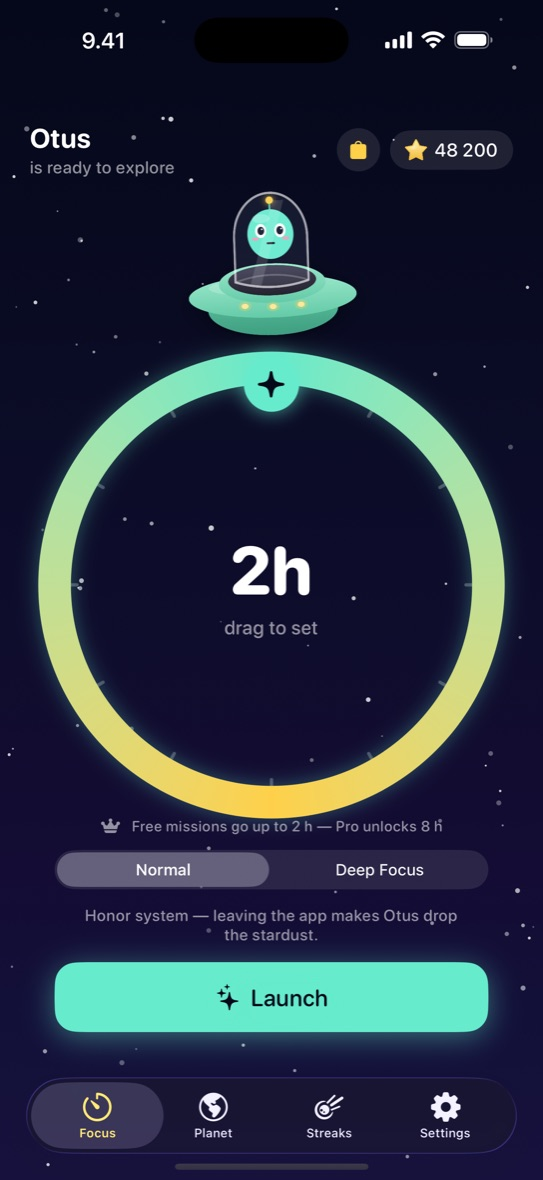
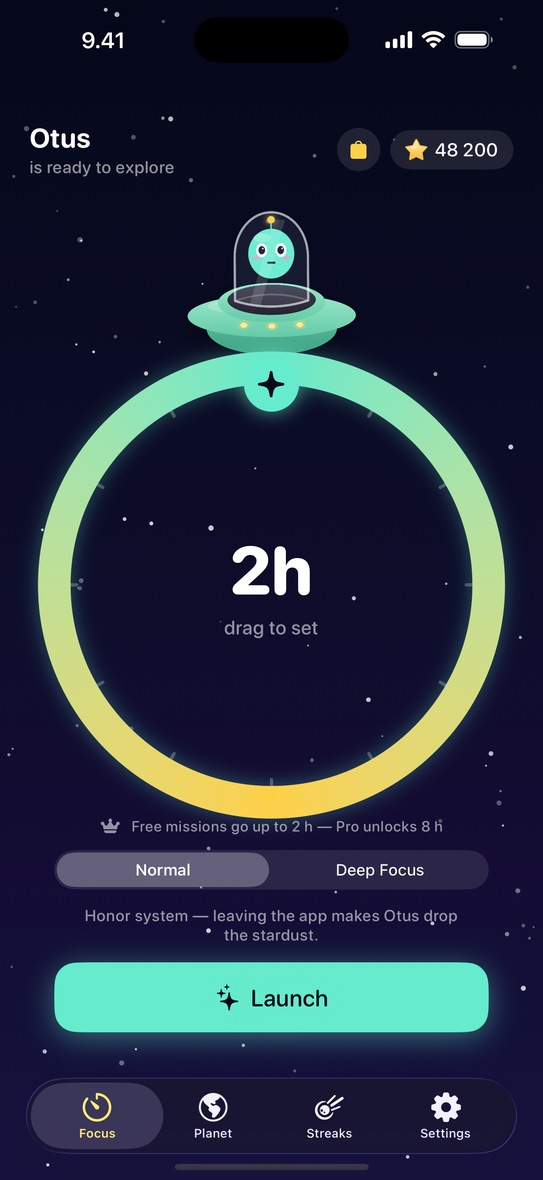
Refresh the OTUS screenshots, and add the outfits shelf
The site keeps its own copies of the app repo's raw/ screens, and they had
gone stale: they were shot on 3 September, before the outfits existed, so
the page was showing an Otus who owns nothing. All ten are recaptured from
today's raws.

Eleventh is new. App Store Connect takes ten and every one is spoken for,
so the outfits shelf can only be shown here — it sits next to the skins
shelf, which is the other half of the same idea.

Alt text updated where the picture changed: the corgi in a bow tie, the
dalmatian in a crown, the flower crown on the water lily, the star
sunglasses on the streak celebration.

diff --git a/_apps/otus/index.md b/_apps/otus/index.md
@@ -33,15 +33,17 @@ screenshots:
   - src: /assets/apps/otus/shot-01.jpg
     alt: "The focus dial, set for a mission"
   - src: /assets/apps/otus/shot-02.jpg
-    alt: "A session running while Otus collects stardust"
+    alt: "A session running while Otus, in corgi colours and a bow tie, collects stardust"
   - src: /assets/apps/otus/shot-05.jpg
-    alt: "A decorated planet"
+    alt: "A decorated planet, with Otus standing on it as a dalmatian in a gold crown"
   - src: /assets/apps/otus/shot-08.jpg
-    alt: "Otus riding the water lily"
+    alt: "Otus riding the water lily, pink and wearing a crown of flowers"
   - src: /assets/apps/otus/shot-09.jpg
     alt: "The shop's alien skins shelf, all fourteen with their prices"
+  - src: /assets/apps/otus/shot-11.jpg
+    alt: "The shop's outfits shelf, bought with stardust rather than money"
   - src: /assets/apps/otus/shot-04.jpg
-    alt: "A streak celebration with the comet"
+    alt: "A streak celebration with the comet, Otus yellow in star sunglasses"
   - src: /assets/apps/otus/shot-10.jpg
     alt: "A month of missions, with the hours and stardust it earned"
   - src: /assets/apps/otus/shot-06.jpg
